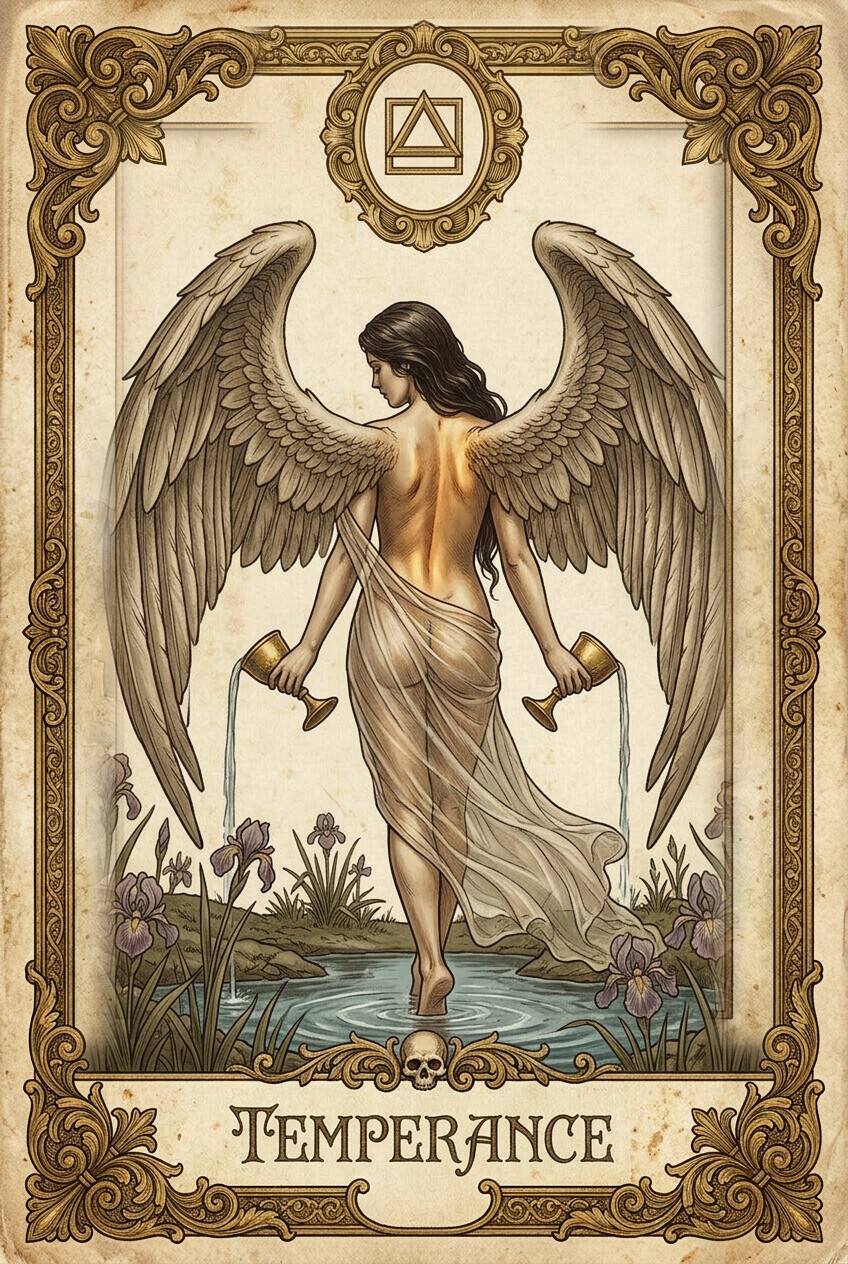
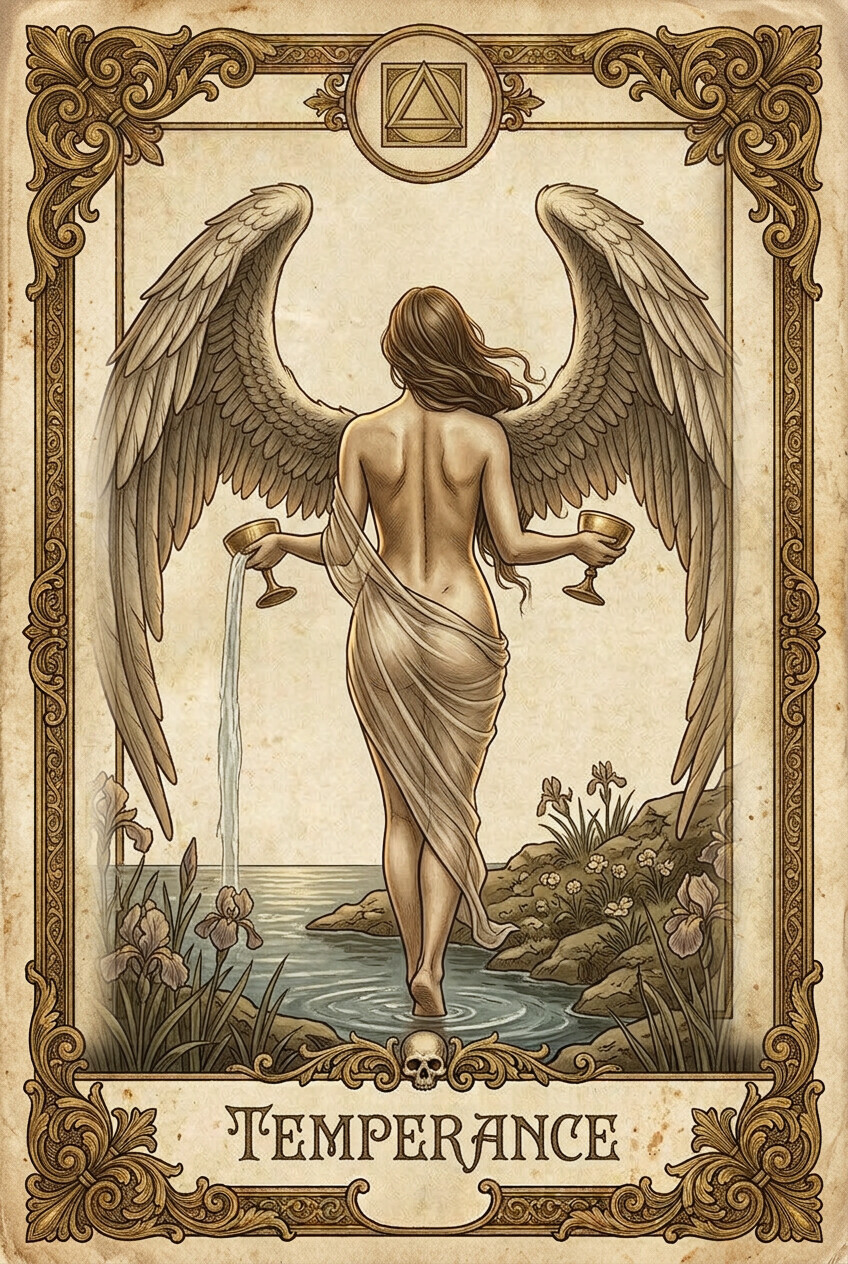
Regenerate World, Star (new standing pose), Fool (gaze on the rose), Tower; rework Temperance wings with back-view rule

diff --git a/scripts/build_prompts.py b/scripts/build_prompts.py
@@ -34,9 +34,10 @@ WING = """WING LOCK (mandatory): wings belong to a figure's back — they are ne
 never a costume and never a decoration. For EVERY winged figure in the scene the wings rise from
 that figure's shoulder blades, the wing roots hidden behind the shoulders, and sweep UPWARD and
 OUTWARD behind the body, opening away from it. The wing tips point up and back, at least as high as
-the figure's head; the concave inner face of each wing turns toward the viewer. Never draw wings
-inverted or mirrored the wrong way round, never folded downward, never drooping past the hips, never
-rooted at the waist or the arms. On any one figure the two wings are the same size and mirror each
+the figure's head; the concave inner face of each wing turns toward the viewer. If the figure is SEEN FROM BEHIND, the wings are seen from behind too: the convex outer surface and
+the leading edge of each wing face the viewer, and the hollow side faces away toward the figure's
+front. Never draw wings inverted or mirrored the wrong way round, never folded downward, never
+drooping past the hips, never rooted at the waist or the arms. On any one figure the two wings are the same size and mirror each
 other across the spine, reading clearly as a left wing and a right wing of one pair."""
 
 NO_COUNT = """COUNT LOCK — not applicable. This card contains no repeated suit objects (no cups, coins, swords or wands). Do not add decorative suit objects, and do not let any object in the scene multiply."""
